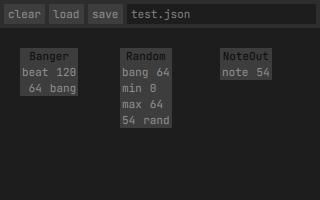
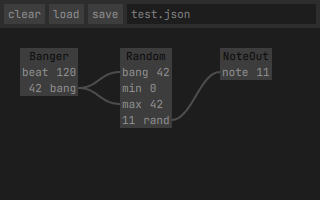
initial link lines

diff --git a/Canvas.qml b/Canvas.qml
@@ -1,4 +1,5 @@
 import QtQuick 2.15
+import QtQuick.Shapes 1.15
 import "." as A
 
 Rectangle { id: root
@@ -8,15 +9,32 @@ Rectangle { id: root
 		anchors.fill: parent
 	}
 
+	Shape { id: links
+		anchors.fill: parent
+		layer.enabled: theme.antialias > 0
+		layer.samples: theme.antialias
+	}
+
 	property var linklist: []
 
 	function clearPatch () {
-		linklist = []
 		for (let i in nodes.children) {
 			let node = nodes.children[i]
 			node.destroy()
 		}
-		nodes.children = "" // NOTE: yes we need this too!
+		nodes.children = [] // NOTE: yes we need this too!
+		linklist = []
+		for (let i in links.data) {
+			let link = links.data[i]
+			link.destroy()
+		}
+		links.data = []
+		// TODO: bug? old lines are still on screen, so add a "hidden" one...
+		links.data.push(Qt.createQmlObject(
+			"import QtQuick 2.15; import QtQuick.Shapes 1.15; ShapePath{}",
+			links,
+			"wat"
+		))
 	}
 
 	function importPatch (json) {
@@ -95,5 +113,24 @@ Rectangle { id: root
 			node: inode,
 			port: inPortName
 		})
+		drawLink(onode, outPortName, inode, inPortName)
+	}
+
+	function drawLink (
+		onode,
+		outPortName,
+		inode,
+		inPortName
+	) {
+		let oport = onode.getPortItem(outPortName)
+		let iport = inode.getPortItem(inPortName)
+		let comp = Qt.createComponent("Link.qml")
+		let line = comp.createObject(links, {
+			startX: Qt.binding(()=>onode.x + onode.width),
+			startY: Qt.binding(()=>onode.y + oport.y + oport.yoff + oport.height/2),
+			endX: Qt.binding(()=>inode.x),
+			endY: Qt.binding(()=>inode.y + iport.y + iport.yoff + iport.height/2)
+		})
+		links.data.push(line)
 	}
 }

diff --git a/Node.qml b/Node.qml
@@ -16,8 +16,9 @@ Rectangle { id:root
 		cursorShape: Qt.SizeAllCursor
 	}
 
+	// TODO: can we construct this so that we dont need Port.yoff?
 	Column {
-		A.Text {
+		A.Text { id:nodeName
 			text: root.type
 			width: root.width
 			horizontalAlignment: Text.AlignHCenter
@@ -32,6 +33,7 @@ Rectangle { id:root
 	}
 
 	property var outputCallbacks: ({})
+	property var portOffsets: ({})
 
 	Component.onCompleted: {
 		let inames = getPropNames("in$")
@@ -41,6 +43,7 @@ Rectangle { id:root
 			let node = comp.createObject(inPortsRoot, {
 				label: iname.replace("in$", ""),
 				value: Qt.binding(()=>root[iname]),
+				yoff: Qt.binding(()=>nodeName.height),
 				ltr: true
 			})
 		}
@@ -50,6 +53,7 @@ Rectangle { id:root
 			let node = comp.createObject(outPortsRoot, {
 				label: oname.replace("out$", ""),
 				value: Qt.binding(()=>root[oname]),
+				yoff: Qt.binding(()=>nodeName.height + inPortsRoot.height),
 				ltr: false
 			})
 			let Oname = oname.charAt(0).toUpperCase() + oname.slice(1)
@@ -77,6 +81,24 @@ Rectangle { id:root
 			}
 		}
 		return props
+	}
+
+	function getPortItem (portName) {
+		if (portName.startsWith("in")) {
+			let label = portName.replace("in$", "")
+			for (let i in inPortsRoot.children) {
+				let port = inPortsRoot.children[i]
+				if (port.label === label)
+					return port
+			}
+		} else {
+			let label = portName.replace("out$", "")
+			for (let i in outPortsRoot.children) {
+				let port = outPortsRoot.children[i]
+				if (port.label === label)
+					return port
+			}
+		}
 	}
 
 	function exportNode () {

diff --git a/Link.qml b/Link.qml
@@ -1,0 +1,21 @@
+import QtQuick 2.15
+import QtQuick.Shapes 1.15
+
+ShapePath {
+	id: root
+	property int curve: theme.line_curve
+	property alias endX: path.x
+	property alias endY: path.y
+	property var link: []
+	fillColor: "transparent"
+	strokeColor: theme.link_fg
+	strokeWidth: theme.line_width
+	capStyle: ShapePath.FlatCap
+	PathCubic {
+		id: path
+		control1X: root.startX + root.curve
+		control1Y: root.startY
+		control2X: x - root.curve
+		control2Y: y
+	}
+}

diff --git a/main.qml b/main.qml
@@ -22,7 +22,11 @@ Rectangle { id:root
 		input_bg: "#1d1d1d",
 		input_fg: "#7d7d7d",
 		button_bg: "#3d3d3d",
-		button_fg: "#8d8d8d"
+		button_fg: "#8d8d8d",
+		link_fg: "#4d4d4d",
+		antialias: 8,
+		line_width: 2,
+		line_curve: 20
 	})
 
 	FontMetrics {

diff --git a/Port.qml b/Port.qml
@@ -6,6 +6,7 @@ Rectangle { id:root
 	property int value
 	property bool ltr
 	property int pad: Math.round(fsize.pad / 2)
+	property int yoff
 	color: theme.port_bg
 
 	width: childrenRect.width

diff --git a/readme.md b/readme.md
@@ -20,6 +20,7 @@ $ ./main.qml -- test.json
 - move ui-nodes
 - load/save patches
 - themes (not yet user loadable)
+- draw link lines
 
 ## Deps
 
@@ -28,7 +29,6 @@ $ ./main.qml -- test.json
 
 ## ToDo
 
-- draw link lines
 - user modify links
 - user modify values
 - user add/del nodes
